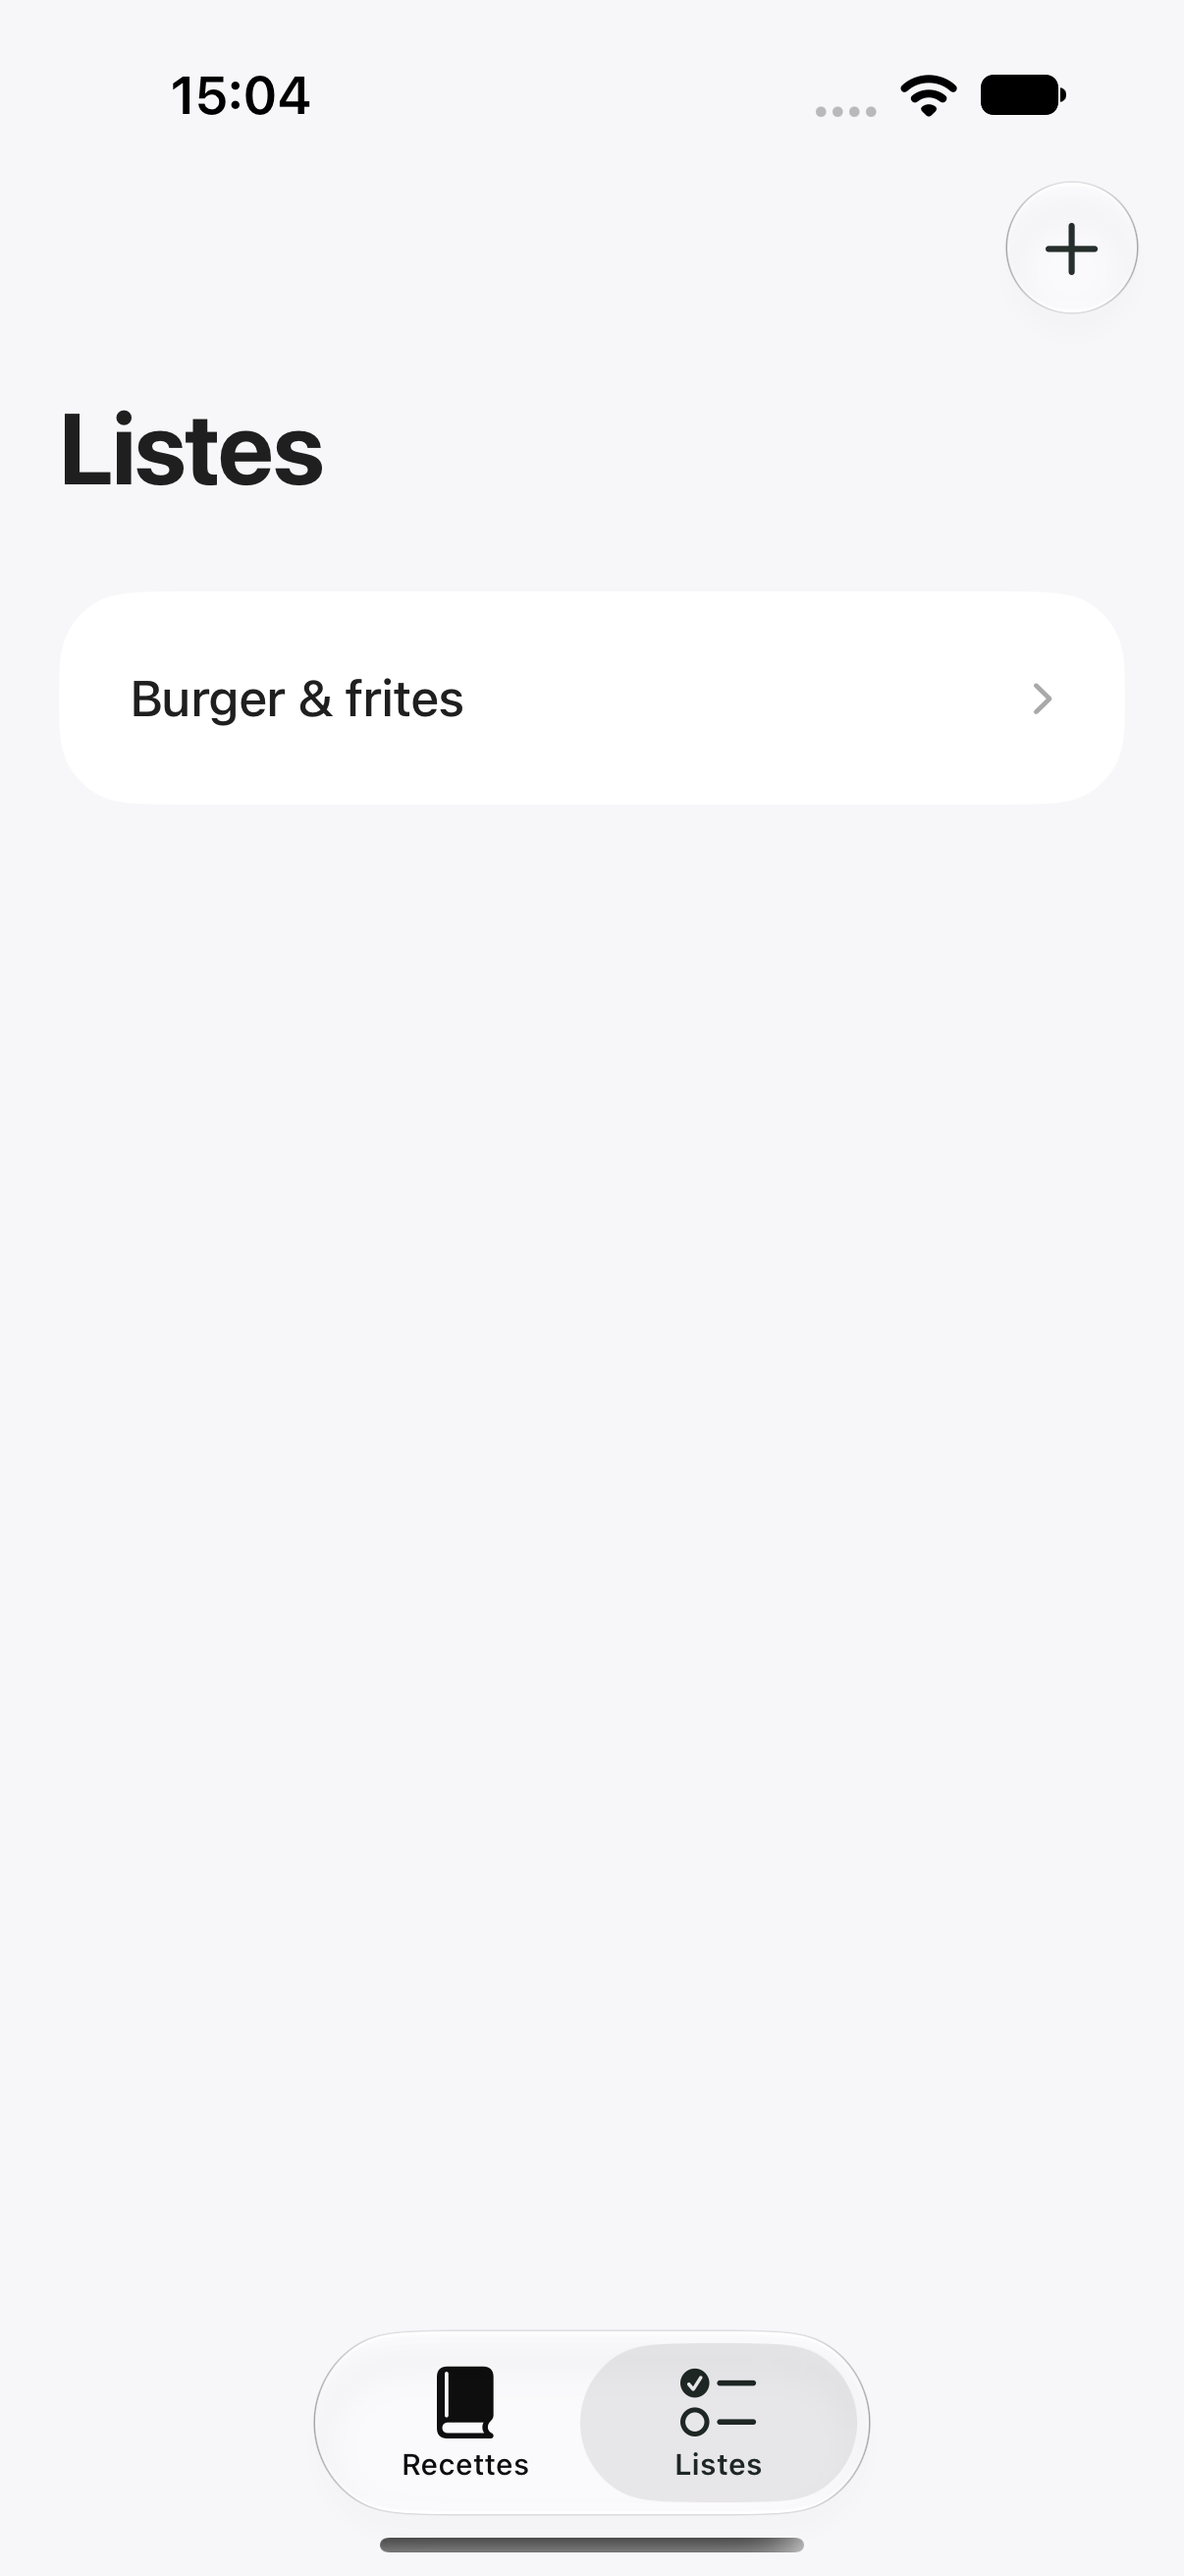
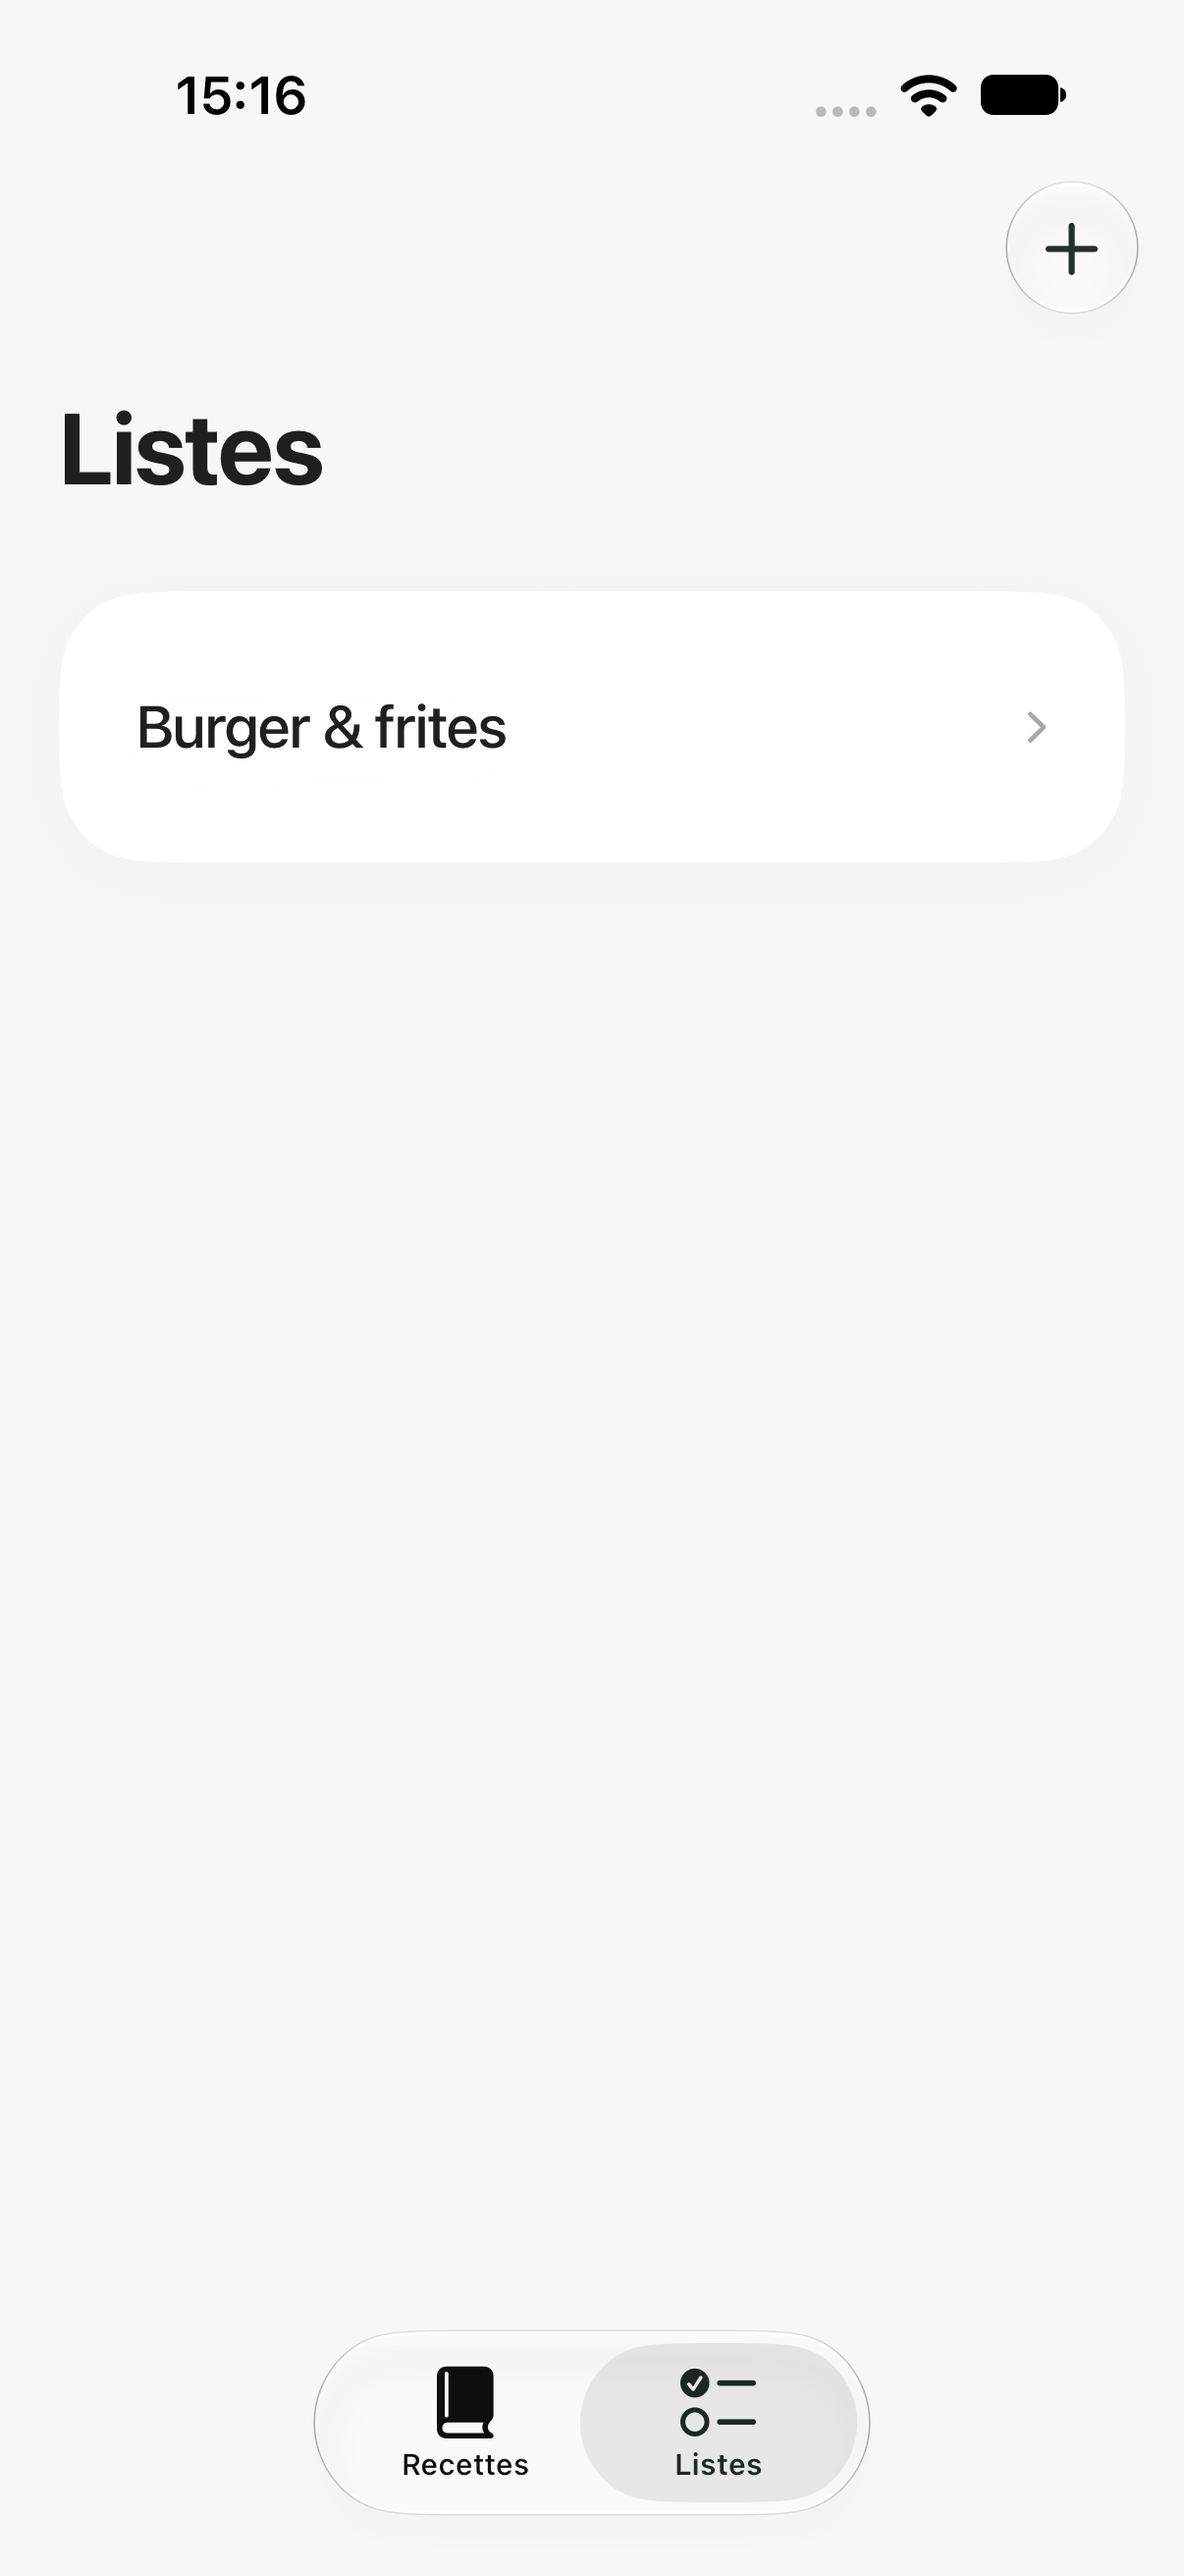
Refine shopping home bubble proportions

Changed region(s): [[0.3375, 0.9577, 0.675, 1.0], [0.092, 0.2471, 0.4295, 0.3089], [0.1534, 0.0309, 0.2761, 0.0618]]

diff --git a/Petit Chef/Shopping/ShoppingListsView.swift b/Petit Chef/Shopping/ShoppingListsView.swift
@@ -40,12 +40,13 @@ struct ShoppingListsView: View {
                         .frame(maxWidth: .infinity)
                         .background(.white, in: .rect(cornerRadius: 28))
                     } else {
-                        LazyVStack(spacing: 12) {
+                        LazyVStack(spacing: 16) {
                             ForEach(Array(shopping.lists.enumerated()), id: \.element.id) { index, list in
                                 NavigationLink(value: list.id) {
                                     HStack(spacing: 20) {
                                         Text(list.title)
-                                            .font(.system(.body, design: .default, weight: .medium))
+                                            .font(.system(.title3, design: .default, weight: .medium))
+                                            .tracking(-0.3)
                                             .fixedSize(horizontal: false, vertical: true)
                                         Spacer(minLength: 0)
                                         Image(systemName: "chevron.right")
@@ -53,11 +54,12 @@ struct ShoppingListsView: View {
                                             .foregroundStyle(ShoppingStyle.muted.opacity(0.65))
                                             .accessibilityHidden(true)
                                     }
-                                    .padding(.horizontal, 24)
-                                    .padding(.vertical, 26)
-                                    .frame(maxWidth: .infinity, alignment: .leading)
-                                    .background(.white, in: .rect(cornerRadius: 26))
-                                    .contentShape(.rect(cornerRadius: 26))
+                                    .padding(.horizontal, 26)
+                                    .padding(.vertical, 28)
+                                    .frame(maxWidth: .infinity, minHeight: 92, alignment: .leading)
+                                    .background(.white, in: .rect(cornerRadius: 30))
+                                    .shadow(color: .black.opacity(0.025), radius: 12, x: 0, y: 4)
+                                    .contentShape(.rect(cornerRadius: 30))
                                 }
                                 .buttonStyle(ShoppingBubbleButtonStyle())
                                 .modifier(ShoppingEntrance(delay: min(Double(index) * 0.025, 0.1)))

diff --git a/docs/shopping-lists.md b/docs/shopping-lists.md
@@ -10,7 +10,7 @@ Le partage est du texte avec les quantités, les recettes d’origine et l’ét
 
 ## Interface et mouvement
 
-L’accueil affiche le titre « Listes » et une bulle blanche arrondie par liste, sur un fond gris très clair. Chaque bulle contient uniquement le nom et un chevron discret. Aucun compteur ni aperçu d’ingrédients. Le bouton de création reste dans la barre supérieure.
+L’accueil affiche le titre « Listes » et une bulle blanche arrondie par liste, sur un fond gris très clair. Les bulles ont une hauteur minimale de 92 points, un rayon de 30 points et un espacement de 16 points. Le nom en taille titre 3 et une ombre très douce leur donnent une présence discrète ; chaque bulle contient uniquement le nom et un chevron. Aucun compteur ni aperçu d’ingrédients. Le bouton de création reste dans la barre supérieure.
 
 Le détail regroupe les ingrédients dans des panneaux blancs arrondis : cases circulaires, quantités alignées à droite et séparateurs fins. Les achats cochés rejoignent un panneau « Dans le panier ». L’ajout d’article reste accessible dans une capsule de verre en bas ; partage et options utilisent les contrôles natifs. La provenance d’un article n’est affichée que si plusieurs recettes alimentent la liste.
 
